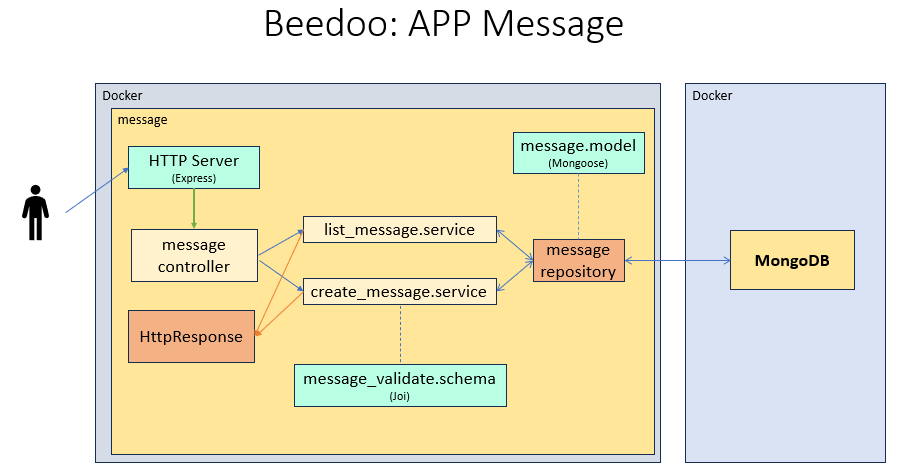
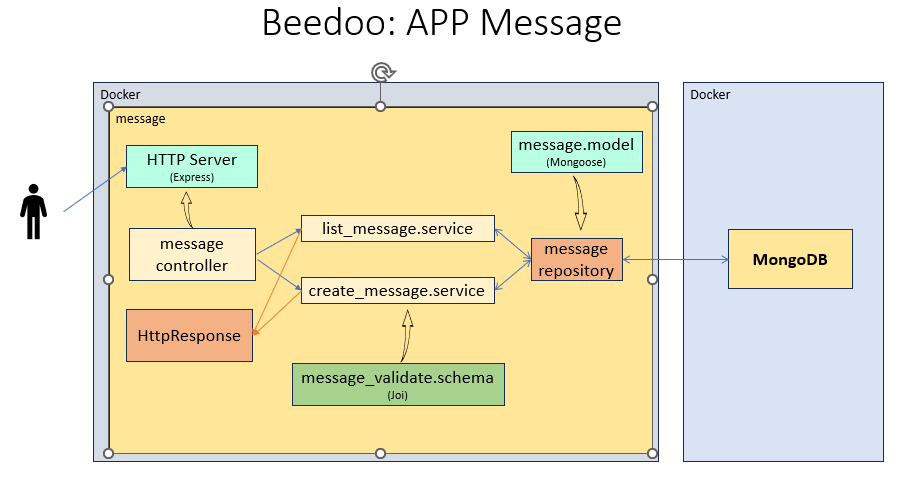
doc: updated readme

Changed region(s): [[0.0, 0.1179, 0.9846, 0.9726], [0.2769, 0.0, 0.7077, 0.0884]]

diff --git a/src/api/messages/test/message.mock.js b/src/api/messages/test/message.mock.js
@@ -5,13 +5,13 @@ const messageRepositoryMock = {
   list: jest.fn(),
 };
 
-const manyMessages = (qtdeMessages, character) => {
-  const messages = [];
-  for (let x = 1; x <= qtdeMessages; x++) {
-    messages.push(messageGenerator(20, character));
-  }
-  return messages;
-};
+// const manyMessages = (qtdeMessages, character) => {
+//   const messages = [];
+//   for (let x = 1; x <= qtdeMessages; x++) {
+//     messages.push(messageGenerator(20, character));
+//   }
+//   return messages;
+// };
 
 const messageGenerator = (qtdeCaracteres, character = 'k') => {
   let message = '';
@@ -29,24 +29,9 @@ const queryMessageMock = {
 
 const resultListMock = [{ message: 'aaaa' }, { message: 'bbbb' }];
 
-const resultListE2E = [
-  'aaaaaaaaaaaaaaaaaaaa',
-  'aaaaaaaaaaaaaaaaaaaa',
-  'aaaaaaaaaaaaaaaaaaaa',
-  'aaaaaaaaaaaaaaaaaaaa',
-  'aaaaaaaaaaaaaaaaaaaa',
-  'aaaaaaaaaaaaaaaaaaaa',
-  'aaaaaaaaaaaaaaaaaaaa',
-  'aaaaaaaaaaaaaaaaaaaa',
-  'aaaaaaaaaaaaaaaaaaaa',
-  'aaaaaaaaaaaaaaaaaaaa',
-];
-
 module.exports = {
   messageRepositoryMock,
   messageGenerator,
   queryMessageMock,
   resultListMock,
-  manyMessages,
-  resultListE2E,
 };

diff --git a/src/infra/connect_mongodb.js b/src/infra/connect_mongodb.js
@@ -2,7 +2,7 @@ const mongoose = require('mongoose');
 
 const connectMongo = async () => {
   const connectionOptions = {
-    maxPoolSize: process.env.MONGO_POOLSIZE || 5,
+    maxPoolSize: process.env.MONGO_POOLSIZE,
     dbName: process.env.MONGO_DATABASE,
   };
   return mongoose.connect(process.env.MONGO_HOST, connectionOptions);

diff --git a/src/api/messages/list_message.service.js b/src/api/messages/list_message.service.js
@@ -39,10 +39,6 @@ class ListMessageService {
 
     return queryProperties;
   }
-
-  validatePageNumber(page) {
-    return isNaN(page);
-  }
 }
 
 module.exports = { ListMessageService };

diff --git a/README.md b/README.md
@@ -34,7 +34,9 @@
 
 <br>
 
-# Arquitetura
+# Etapa 1: Código, boas práticas e testes
+
+# 1.1 - Arquitetura
 
 A parte central do sistema é composta por: Controller, Services, Repository e HTTP Response.
 
@@ -43,13 +45,21 @@ A parte central do sistema é composta por: Controller, Services, Repository e H
 - **Repository** - Implementa as operações com o banco de dados e utiliza model para cada coleção. É passado do controller para os services fazendo injeção de dependência.
 - **HTTP Response** - É responsável por responder as requisições HTTP dos usuários. É passado do controller para os services fazendo injeção de dependência.
 
+<br>
+
+## Práticas adotadas
+- Aplicamos a inversão de dependência para facilitar aplicação de testes bem como permitir uma maior flexibilidade em fazer substituições de tecnologias da camadas mais externa do sistema. "HTTP response" e "message repository" são instanciados pelo controller que os injeta nos services ao instancia-los.
+- Separamos os recursos referentes a "infra" da regra de negócio. Com esta prática flexibilizasse a substituição dos recursos de infra com baixo ou nenhum impacto na regra de negócio. Ganhando com isso mais segurança em fazer substituições de tecnologias.
+- Adotamos a validação do payload no service, por entender que essa parte do processo diz respeito a regra de negócio. Por isso não foi colocado como "middleware", pois com isso uma parte importante do processo ficaria a encardo de um recurso da camada externa.
+
+
 A imagem a seguir exemplifica as relações entre as respectivas partes do sistema.
 
 ![APP Message](./imgs/arquitetura.png)
 
 ## Containers
 
-Adotou-se constainer visando portabilidade, consistência, escalabilidade, isolamento e outros benefícios. 
+Adotou-se container visando portabilidade, consistência, escalabilidade, isolamento e outros benefícios. 
 Eles fornecem um ambiente em que o aplicativo funcione da mesma forma, independentemente de onde esteja sendo executado.
 O projeto é apresentado em dois containers Docker e gerenciado pelo Docker-compose:
 
@@ -85,87 +95,71 @@ No exemplo a seguir temos uma query string com **page** e **words**
 
 <br>
 
-# Tecnologias utilizadas
+# 1.2 - Tecnologias utilizadas
 
 ## Qualidade de Código
 
 - **prettier**: Adotamos para a formatação de código que ajuda a manter a consistência e a legibilidade do código-fonte.
 - **eslint**: Adotamos para fazer a análise estática de código. Ela ajuda a identificar problemas e erros comuns no código, além de aplicar regras de estilo e boas práticas de programação.
 - **husky**: Adotamos para que no pre-commit execute os scripts:
-  - Neste projeto, antes do commit, está sendo checado:
     - O lint para o arquivos que estão em stage.
-    - E roda todos os testes.
+    - E test unitário.
 - **lint-stageg**: Permite executar linters de código apenas nos arquivos modificados em um determinado commit.
-- **test coverage**: É uma métrica usada para medir a extensão em que o código de um programa é testado pelos casos de teste. Ele indica a porcentagem de código que é executado durante a execução dos testes automatizados. Neste projeto a cobertura de testes está em 100%.
+- **test coverage**: Buscamos uma cobertura de teste acima de 90%.
 
 ## Regra de negocio
 
-- **decimal.js**: Biblioteca JavaScript que oferece suporte a operações matemáticas precisas e manipulação de números decimais. Ela foi projetada para superar as limitações de aritmética de ponto flutuante do JavaScript padrão, que pode resultar em imprecisões em cálculos envolvendo números decimais.
-- **node-input-validator**: Biblioteca para validação de entrada de dados em aplicativos Node.js. Ela fornece uma maneira simples e flexível de validar e sanitizar dados.
+- **Joi**: Validamos a string da mensagem para que tenha um valor e que não seja superior a 300 caracteres.
 
 ## Outras tecnologias
 
-- **Express**: Framework para desenvolvimento de aplicações web em Node.js. Ele fornece uma camada de abstração sobre o servidor HTTP do Node.js.
-- **MongoDB**: Banco de dados orientado a documentos, classificado como um banco de dados NoSQL (não relacional). Ele foi projetado para armazenar e gerenciar grandes volumes de dados de forma eficiente, fornecendo alta escalabilidade e desempenho.
-- **Mongoose**: Biblioteca de modelagem de objetos do MongoDB para aplicativos Node.js. Ela fornece uma camada de abstração sobre o driver nativo do MongoDB, facilitando a interação com o banco de dados e a definição de esquemas de dados.
-- **Docker-compose**: Ferramenta que permite definir e gerenciar vários contêineres Docker como uma única aplicação. Com ele, você pode criar, configurar e executar aplicativos multi-container.
-- **NodeJS**: Ambiente de tempo de execução de código aberto baseado no motor JavaScript V8 do Google Chrome. Ele permite que você execute JavaScript no lado do servidor.
-- **NPM**: Node Package Manager é o gerenciador de pacotes padrão para o ecossistema do Node.js. Ele permite que os desenvolvedores instalem, gerenciem e compartilhem pacotes de código reutilizáveis (módulos) para seus projetos.
-- **Jest**: Framework de teste de código aberto para JavaScript, projetado principalmente para testar aplicativos e bibliotecas do Node.js.
-- **winston**: Biblioteca de registro (logging) para o Node.js. Ela fornece uma interface flexível e extensível para registrar mensagens e eventos nos aplicativos Node.js.
-- **Nodemon**: É uma ferramenta muito que agiliza o desenvolvimento, pois economiza tempo e esforço ao automatizar o processo de reinicialização do servidor sempre que necessário.
+- **Express**: Foi adotado como servidor HTTP por estar consolidado e por ter uma quantidade signifiativa de desenvolvedores familiarizados com a tecnologi.
+- **MongoDB**: Foi escolhido por armazenar e gerenciar grandes volumes de dados de forma eficiente, fornecendo alta escalabilidade e desempenho. Nos bancos de dados relacionais o armazenamento de dados em campos com mais de 255 caracteres tem uma degradação de performance.
+- **Mongoose**: Foi escolhido por ser conhecido entre a comunidade de desenvolvedores e por fornece uma camada de abstração sobre o driver nativo do MongoDB, facilitando a interação com o banco de dados e a definição de esquemas de dados.
+- **Docker-compose**: Facilita a criação, configurar e execução de aplicativos multi-container.
+- **NodeJS**: Foi escolhido para atender as especificações do projeto.
+- **NPM**: Foi adotado por sua maturidade, adoção e por ser integrado diretamente ao NodeJS, o que significa que não requer instalação adicional.
+- **Jest**: Foi adotado como ferramenta de teste por ter uma configuração simplificada, uma suíte completa de resursos e uma ótima integração com o ecossistema JavaScript. Seu tempo de execução é muito bom por executar testes em paralelo.
+- **winston**: Foi adotado por fornece uma interface flexível e extensível para registrar mensagens e eventos nos aplicativos Node.js.
+- **Nodemon**: Foi adotada para economiza tempo e esforço ao automatizar o processo de reinicialização do servidor sempre que necessário.
 
 <br>
 
-# Instalação
+# 1.3 - Instalação
 
 Passo 1: Clone o projeto. Na sua pasta de projetos execute o seguinte comando.
 
 ```
-git clone https://github.com/martinmoraes/sfc.git
+git clone https://github.com/martinmoraes/beedoo.git
+
+ou
+
+git clone git@github.com:martinmoraes/beedoo.git
 ```
 
 Passo 2: Instale as dependências. Na pasta raiz do projeto, execute os seguintes comando.
 
 ```
-cd sfc
+cd beedoo
 npm install
-```
-
-## Execução em modo de produção
-
-Passo 1: Iniciar a aplicação - Ainda na pasta raiz do projeto execute o comando abaixo.
-
-Obs.:
-
-- É necessário ter instalado o Docker e Docker-compose.
-- Certifique-se que nenhum serviço ou container esteja utilizando as portas 3001 e 27017.
-- Se estiver executando o Docker da seção "Execução em modo desenvolvimento", execute o passo 5 da referida seção.
-
-```
-docker-compose up -d
-```
-
-Passo 2: Parar a aplicação - Para parar a aplicação, estando na pasta raiz do projeto execute o seguinte comando.
-
-```
-docker-compose stop
 ```
 
 ## Execução em modo desenvolvimento
 
 Passo 1: Criar o arquivo .env, na raiz do projeto, com o seguinte conteudo
 
-P.S.: A variável de ambiente "LOG_DIR" deve conter o path completo para a pasta "log".
+P.S.: 
+- A variável de ambiente "LOG_DIR" deve conter o path completo para a pasta "log".
+- A aplicação vai utilizar a porta 3001, conforme definido em APP_PORT.
 
 ```
-APP_PORT=3001
-
-MONGO_HOST=mongodb://admin:admin@localhost:27017/?authMechanism=DEFAULT
-MONGO_DATABASE=mttechne
 MONGO_POOLSIZE=5
+MONGO_DATABASE=beedoo_test
+MONGO_HOST=mongodb://admin:password@localhost:27017/?authMechanism=DEFAULT
 
-LOG_DIR=~/log
+LOG_DIR=./log
+NODE_ENV='development'
+APP_PORT=3001
 ```
 
 Passo 2: MongoDB em Docker - Para executar o MongoDB em um Docker, execute o comando abaixo.
@@ -173,16 +167,12 @@ Passo 2: MongoDB em Docker - Para executar o MongoDB em um Docker, execute o com
 Obs.:
 
 - É necessário ter instalado o Docker e Docker-compose.
-- Certifique-se que nenhum serviço ou container esteja utilizando as portas 3001 e 27017.
-- Se estiver executando o Docker-compose da seção "Execução em modo de produção" execute o "Passo 2: Parar a aplicação", da referida seção.
+- Certifique-se que nenhum serviço ou container esteja utilizando as portas 3000 e 27017.
+- Quando rodar o docker a aplicação estará rodando na porta 3000.
+- Execute o seguinte comando da raiz do projeto para executar os containers.
 
 ```
-docker run -d --rm --name mongodb \
-	-p 27017:27017 \
-	-v data:/data/db \
-	-e MONGO_INITDB_ROOT_USERNAME=admin \
-	-e MONGO_INITDB_ROOT_PASSWORD=admin \
-	mongo:6.0.6
+docker-compose up -d
 ```
 
 Passo 3: Rodar o projeto - Certifique-se de estar na pasta raiz do projeto e execute o seguinte comando.
@@ -204,17 +194,20 @@ Command + C
 Passo 5: Parar o container - Para parar o container do MongoDB execute o seguinte comando.
 
 ```
-docker stop mongodb
+docker-compose down
 ```
 
 ## Postman: Testar os endpoint
 
 Pode ser utilizado o aplicativo [Postman](https://www.postman.com/) para fazer requisições nos endpoints.
-Na raiz do projeto, na pasta "postman" tem os arquivos que podem ser importados no Postman. Importe o environment e collection.
+Na raiz do projeto, na pasta "postman" tem os arquivos que podem ser importados no Postman. Importe o environment e collection. A seguir descrição dos três arquivos:
+- **beedoo containner.postman_environment.json**: Contem a(s) variávei(s) de ambientes direcionada a aplicação que roda no **container**.
+- **beedoo local.postman_environment.json**: Contem a(s) variávei(s) de ambientes direcionada a aplicação que roda em modo de **desenvolvimento**.
+- **message.postman_collection.json**: Contem as coleções para as chamadas POST e GET.
 
 <br>
 
-# Testes
+# 1.4 - Testes
 
 Os testes de unidade são uma prática de desenvolvimento de software em que unidades individuais de código são testadas para verificar se funcionam conforme o esperado.
 
@@ -238,7 +231,7 @@ npm run lint:fix
 
 ## Prettier
 
-Formata os arquivos JavaScript (com extensão .js) no diretório 'src' e em todos dentro dele. Estando na raiz do projeto execute o seguinte comando:
+Formata os arquivos JavaScript (com extensão .js) no diretório 'src' e em todos sub diretórios. Estando na raiz do projeto execute o seguinte comando:
 
 ```
 npm run format
@@ -252,40 +245,70 @@ Verifica a cobertura de teste, Estando na raiz do projeto execute o seguinte com
 npm run test:coverage
 ```
 
+<br>
+
+# Etapa 2: Análise de requisitos e planejamento técnico
+
+No futuro queremos permitir que os usuários possam adicionar comentários as mensagens.
+
+## Perguntas para o PO
+
+- Os comentários tem limitação de caracteres?
+- Os comentários poderão receber comentários?
+- Os comentários recebe o mesmo tratamento que uma mensagem?
+- O tempo de resposta para as **consultas/lista** se degradam conforme o volume de dados e a quantidade de requisições simultâneas. Temos de estar preparados para um volúme da dados e requisições exprecivos? 
+
+## Implementações
+
+Em linhas gerais as implementações necessárias, no back-end, para adicionar a funcionalidade de comentários são:
+- Colocar no payload de resposta, de cada mensagem, o identificador da mensagem (_id);
+- No payload de cada comentário (request) tem de ser fornecido o comentário e o identificador (_id) da mensagem.
+- Criar um controler com uma rota POST para criar o usuário;
+- Criar um service que sanitize os dados e que faça a chamada para persistência;
+
+  - Para definir a forma de persistência será necessário conversar com o PO para enteder se os comentários serão como novas mensagens, ou seja, se também podem receber comentário. Se sim os comentários serão armazenados na tabela das mensagens. Se não os comentários serão armazenados em uma tabela específica.
 
 
+## Desafios Técnicos
+
+Um dos desafios é dimencinar a quantidade de requisições simultâneas que o sistema irá receber. O processo de consultas/listar é o mais crítico para o tempo de resposta.
+Pensando nessa situação, tem-se algumas alternativas, todas elas carecem de uma análise mais detalhada com auxilio de métricas, principalmente para identificar se o gargalo é a aplicação, qual rota da aplicação e/ou se é o banco de dados. 
 
 
+<br>
 
+# Etapa 3: Auto avaliação
 
+## Melhorias
 
+<br>
 
+### Cache para paginação
 
-## Relacional versus Dados NoSQL / O Teorema de CAP
+Uma das melhorias que implementaria, visando uma melhor performance em recuperar os dados, seria no processo de paginação. Guardaria em um cache a chave do último registro (primeiro por estar ordenado decrescente) para que na solicitação da próxima pagina a busca no banco de dados ocoreria apartir do último registro. Evitaria com isso que o processo de filtro tivesse que passar por todos os registros a cada paginação.
 
-A principal diferença entre o modelo de dados não relacional e o tradicional é que o modelo não relacional é projetado para processar grandes quantidades de dados em um segundo, com requisitos de consistência relativamente baixos. 
+Por não ter a identificação do usuário que está fazendo a requisição, utilizaria como chave no cache, o IP com a porta da requisição de origem. Usaria a porta porque em uma rede de origem que utiliza NAT diferentes usuários estão com o mesmo IP na requisição.
 
+<br>
 
-https://learn.microsoft.com/pt-br/dotnet/architecture/cloud-native/relational-vs-nosql-data
+### Observabilidade e Métricas
 
-SQL vs NoSQL: A Performance Comparison
-https://www.cs.rochester.edu/courses/261/fall2017/termpaper/submissions/06/Paper.pdf
+Implementando observabilidade e métricas teriamos informações para acompanhar o perfil de utilização do sistema, os gargalos, alertas para os erros que ocorreriam.
 
-SQL vs NoSQL: A Performance Comparison
-https://restapp.io/blog/sql-vs-nosql-a-performance-comparison/
+<br>
 
+## Escalabilidade
 
+Alternativas:
+- SAGA: Consiste em separar os serviços de consulta, em outra aplicação, dos demais serviços. Criar dois banco de dados um para atender a presistência de novas mensagens e comentários e outro banco de dados para as consultas/listas. A integração dos dados pode ser feita:
+  
+  - O serviço de criar mensagem persiste nas duas bases;
+  - O serviço de criar mensagem coloca em uma fila e o serviço de consultas/listas pega da fila e persiste na base.
 
-SQL databases are vertically scalable, while NoSQL databases are horizontally scalable. 
+- Levantar mais instâncias da aplicação e utilizar um balanceador de carga.
+- Fazer um cluster do banco de dados MongoDB, que possibilita o balanceamento de carga. 
+- Utilizar o Elasticsearch para otimizar a busca por palavras no serviço de consultas/listar.
 
-
-## Perguntas
-
-- Qual payload (Json/ string) de request (POST) e response na rota de create message?
-- Ao persistir a mensagem, além da mensagem, persister outros dados (Ex. createdAt)?
-- Ao listar as mensagens ordenar por padrão de alguma forma?
-- A busca por "palavras chave" seriam separadas por espaço? 
-
-## Justificativa 
-
-- noSQL: Tamanho da mensagem e performance 
+<br>
+Outras possibilidades podem surgir durante a análise das métricas bem como a troca de idéias com a equipe.
+Ao considerar uma tecnologia é importante levar em conta os recursos e custos envolvidos.
